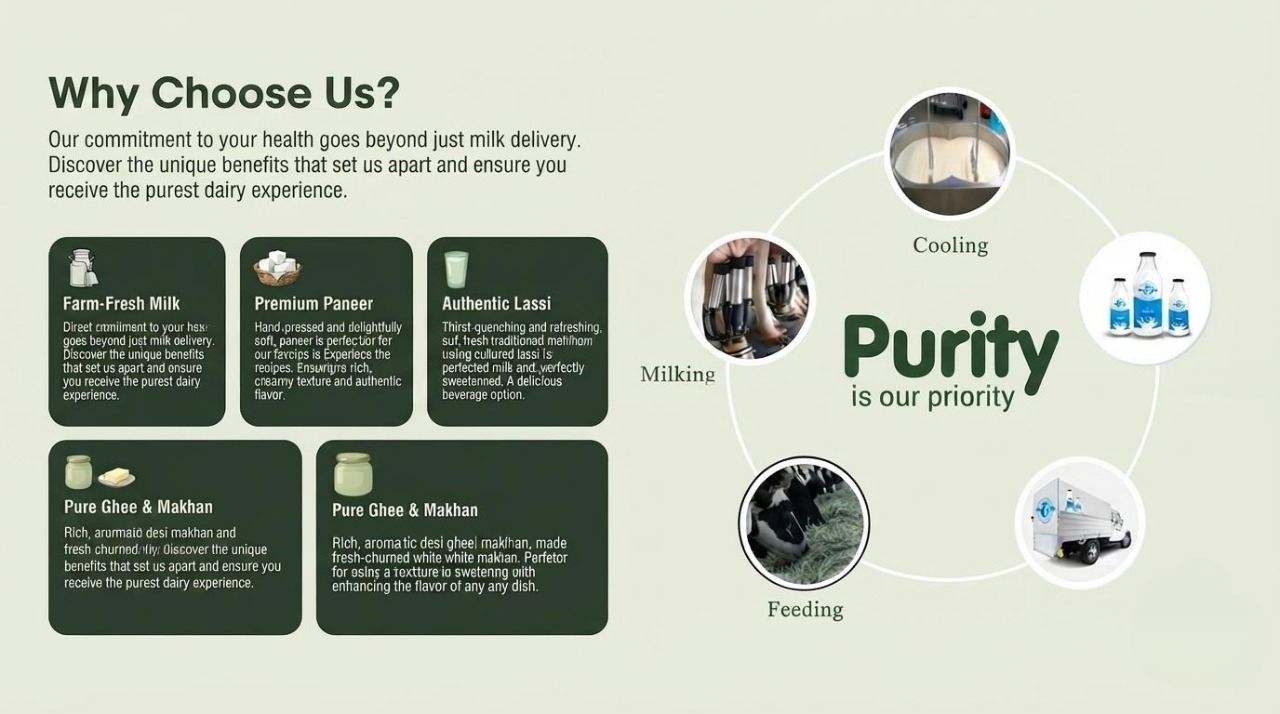
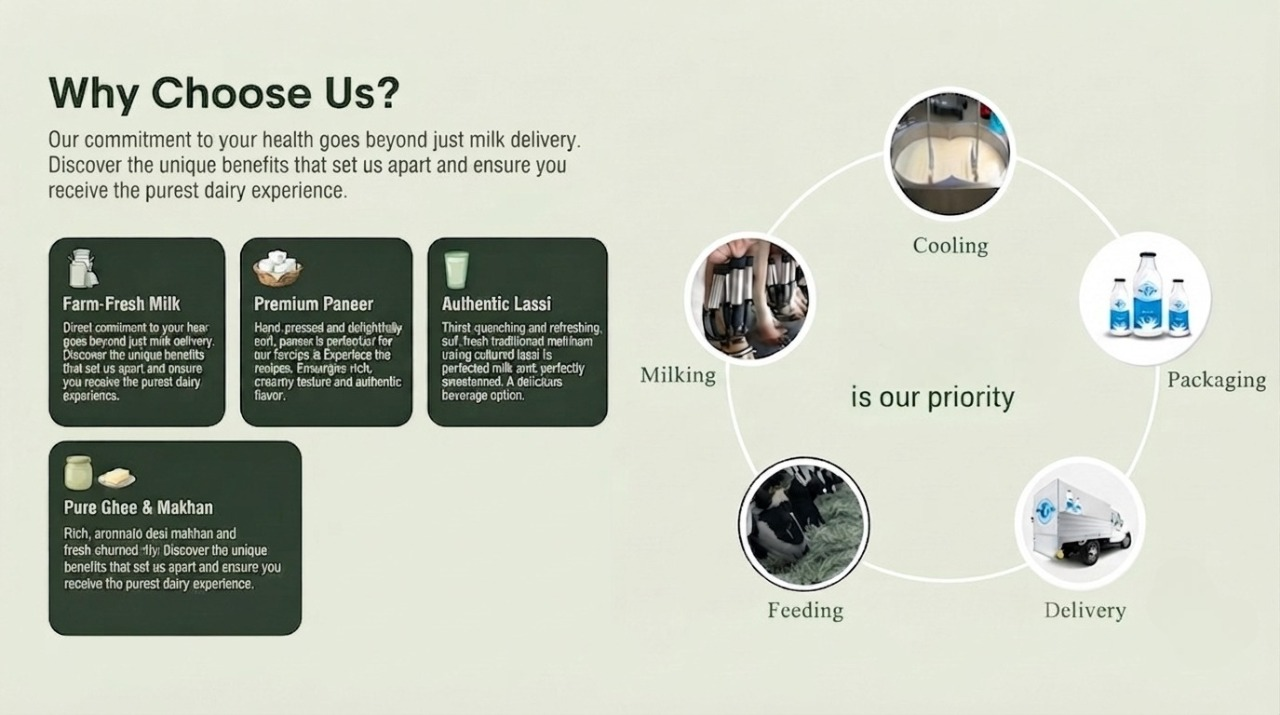
up

diff --git a/lib/features/auth/widgets/otp_input_field.dart b/lib/features/auth/widgets/otp_input_field.dart
@@ -20,9 +20,15 @@ class OtpInputField extends StatefulWidget {
 }
 
 class _OtpInputFieldState extends State<OtpInputField> {
-  final List<TextEditingController> _controllers =
-      List.generate(6, (_) => TextEditingController());
+  late List<TextEditingController> _controllers;
   final List<FocusNode> _focusNodes = List.generate(6, (_) => FocusNode());
+
+  @override
+  void initState() {
+    super.initState();
+    // Pre-populate with space to detect backspace on empty fields across all platforms (mobile IME)
+    _controllers = List.generate(6, (_) => TextEditingController(text: ' '));
+  }
 
   @override
   void dispose() {
@@ -36,15 +42,36 @@ class _OtpInputFieldState extends State<OtpInputField> {
   }
 
   void _onDigitChanged(int index, String value) {
-    if (value.isNotEmpty) {
-      if (index < 5) {
-        _focusNodes[index + 1].requestFocus();
-      } else {
-        _focusNodes[index].unfocus();
+    if (value.isEmpty) {
+      // Put the space back so we can detect future deletions
+      _controllers[index].text = ' ';
+      
+      if (index > 0) {
+        // Clear the previous controller's digit and set it back to space
+        _controllers[index - 1].text = ' ';
+        _focusNodes[index - 1].requestFocus();
+      }
+    } else {
+      final cleanValue = value.replaceAll(' ', '');
+      if (cleanValue.isNotEmpty) {
+        final digit = cleanValue.substring(cleanValue.length - 1);
+        _controllers[index].value = TextEditingValue(
+          text: digit,
+          selection: TextSelection.collapsed(offset: digit.length),
+        );
+
+        if (index < 5) {
+          _focusNodes[index + 1].requestFocus();
+        } else {
+          _focusNodes[index].unfocus();
+        }
       }
     }
 
-    final code = _controllers.map((c) => c.text).join();
+    final code = _controllers.map((c) {
+      return c.text.replaceAll(' ', '');
+    }).join();
+
     if (widget.onChanged != null) {
       widget.onChanged!(code);
     }
@@ -61,34 +88,54 @@ class _OtpInputFieldState extends State<OtpInputField> {
         return SizedBox(
           width: 48,
           height: 56,
-          child: TextFormField(
-            controller: _controllers[index],
-            focusNode: _focusNodes[index],
-            keyboardType: TextInputType.number,
-            textAlign: TextAlign.center,
-            style: const TextStyle(
-              fontSize: 20,
-              fontWeight: FontWeight.bold,
-              color: AppColors.primaryBlue,
-            ),
-            inputFormatters: [
-              LengthLimitingTextInputFormatter(1),
-              FilteringTextInputFormatter.digitsOnly,
-            ],
-            onChanged: (value) => _onDigitChanged(index, value),
-            decoration: const InputDecoration(
-              filled: true,
-              fillColor: AppColors.inputBackground,
-              contentPadding: EdgeInsets.zero,
-              border: OutlineInputBorder(
-                borderRadius: AppSizes.borderMedium,
-                borderSide: BorderSide(color: AppColors.border),
+          child: KeyboardListener(
+            focusNode: FocusNode(skipTraversal: true),
+            onKeyEvent: (KeyEvent event) {
+              if (event is KeyDownEvent) {
+                if (event.logicalKey == LogicalKeyboardKey.arrowLeft && index > 0) {
+                  _focusNodes[index - 1].requestFocus();
+                } else if (event.logicalKey == LogicalKeyboardKey.arrowRight && index < 5) {
+                  _focusNodes[index + 1].requestFocus();
+                }
+              }
+            },
+            child: TextFormField(
+              controller: _controllers[index],
+              focusNode: _focusNodes[index],
+              keyboardType: TextInputType.number,
+              textAlign: TextAlign.center,
+              textInputAction:
+                  index < 5 ? TextInputAction.next : TextInputAction.done,
+              onFieldSubmitted: (_) {
+                final code = _controllers.map((c) => c.text.replaceAll(' ', '')).join();
+                if (code.length == 6) {
+                  widget.onCompleted(code);
+                }
+              },
+              style: const TextStyle(
+                fontSize: 20,
+                fontWeight: FontWeight.bold,
+                color: AppColors.primaryBlue,
               ),
-              focusedBorder: OutlineInputBorder(
-                borderRadius: AppSizes.borderMedium,
-                borderSide: BorderSide(
-                  color: AppColors.primaryBlue,
-                  width: 2.0,
+              inputFormatters: [
+                LengthLimitingTextInputFormatter(2),
+                FilteringTextInputFormatter.allow(RegExp(r'[0-9\s]')),
+              ],
+              onChanged: (value) => _onDigitChanged(index, value),
+              decoration: const InputDecoration(
+                filled: true,
+                fillColor: AppColors.inputBackground,
+                contentPadding: EdgeInsets.zero,
+                border: OutlineInputBorder(
+                  borderRadius: AppSizes.borderMedium,
+                  borderSide: BorderSide(color: AppColors.border),
+                ),
+                focusedBorder: OutlineInputBorder(
+                  borderRadius: AppSizes.borderMedium,
+                  borderSide: BorderSide(
+                    color: AppColors.primaryBlue,
+                    width: 2.0,
+                  ),
                 ),
               ),
             ),

diff --git a/lib/core/widgets/app_desktop_sidebar.dart b/lib/core/widgets/app_desktop_sidebar.dart
@@ -154,14 +154,16 @@ class AppDesktopSidebar extends ConsumerWidget {
                   decoration: BoxDecoration(
                     color: const Color(0xFFECF5F0),
                     borderRadius: BorderRadius.circular(14),
-                    border: Border.all(color: const Color(0xFFCBE0D4), width: 0.8),
+                    border:
+                        Border.all(color: const Color(0xFFCBE0D4), width: 0.8),
                   ),
                   child: Row(
                     children: [
                       const CircleAvatar(
                         backgroundColor: Color(0xFF005F38),
                         radius: 18,
-                        child: Icon(Icons.person, color: Colors.white, size: 20),
+                        child:
+                            Icon(Icons.person, color: Colors.white, size: 20),
                       ),
                       const SizedBox(width: 10),
                       const Expanded(
@@ -194,7 +196,8 @@ class AppDesktopSidebar extends ConsumerWidget {
                             context: context,
                             builder: (ctx) => AlertDialog(
                               title: const Text('Log Out'),
-                              content: const Text('Are you sure you want to log out of Sawariya Dairy?'),
+                              content: const Text(
+                                  'Are you sure you want to log out of Sawariya Dairy?'),
                               actions: [
                                 TextButton(
                                   onPressed: () => Navigator.pop(ctx),
@@ -203,9 +206,13 @@ class AppDesktopSidebar extends ConsumerWidget {
                                 TextButton(
                                   onPressed: () {
                                     Navigator.pop(ctx);
-                                    ref.read(userProvider.notifier).clearSession();
+                                    ref
+                                        .read(userProvider.notifier)
+                                        .clearSession();
                                   },
-                                  child: const Text('Log Out', style: TextStyle(color: Colors.redAccent)),
+                                  child: const Text('Log Out',
+                                      style:
+                                          TextStyle(color: Colors.redAccent)),
                                 ),
                               ],
                             ),
@@ -264,46 +271,39 @@ class _SidebarNavItemState extends State<_SidebarNavItem> {
     return MouseRegion(
       onEnter: (_) => setState(() => _isHovered = true),
       onExit: (_) => setState(() => _isHovered = false),
-      child: AnimatedContainer(
-        duration: const Duration(milliseconds: 150),
-        decoration: BoxDecoration(
-          color: active
-              ? const Color(0xFF005F38)
-              : (_isHovered ? const Color(0xFFD4E6DC) : Colors.transparent),
-          borderRadius: AppSizes.borderMedium,
-        ),
-        child: Material(
-          color: Colors.transparent,
-          borderRadius: AppSizes.borderMedium,
-          child: ListTile(
-            onTap: widget.onTap,
-            shape: const RoundedRectangleBorder(
-              borderRadius: AppSizes.borderMedium,
-            ),
-            contentPadding: const EdgeInsets.symmetric(
-              horizontal: AppSizes.p16,
-              vertical: 2,
-            ),
-            leading: Icon(
-              active ? widget.activeIcon : widget.icon,
+      child: Material(
+        color: _isHovered ? const Color(0xFFD4E0DC) : Colors.transparent,
+        borderRadius: AppSizes.borderMedium,
+        clipBehavior: Clip.antiAlias,
+        child: ListTile(
+          onTap: widget.onTap,
+          shape: const RoundedRectangleBorder(
+            borderRadius: AppSizes.borderMedium,
+          ),
+          contentPadding: const EdgeInsets.symmetric(
+            horizontal: AppSizes.p16,
+            vertical: 2,
+          ),
+          // ... keep your leading, title, and trailing widgets below as they were
+          leading: Icon(
+            active ? widget.activeIcon : widget.icon,
+            color: active
+                ? Colors.white
+                : (_isHovered
+                    ? const Color(0xFF005F38)
+                    : const Color(0xFF334E41)),
+            size: 22,
+          ),
+          title: Text(
+            widget.label,
+            style: TextStyle(
+              fontSize: 14,
+              fontWeight: active ? FontWeight.w700 : FontWeight.w500,
               color: active
                   ? Colors.white
                   : (_isHovered
                       ? const Color(0xFF005F38)
                       : const Color(0xFF334E41)),
-              size: 22,
-            ),
-            title: Text(
-              widget.label,
-              style: TextStyle(
-                fontSize: 14,
-                fontWeight: active ? FontWeight.w700 : FontWeight.w500,
-                color: active
-                    ? Colors.white
-                    : (_isHovered
-                        ? const Color(0xFF005F38)
-                        : const Color(0xFF334E41)),
-              ),
             ),
           ),
         ),

diff --git a/lib/features/auth/screens/login_screen.dart b/lib/features/auth/screens/login_screen.dart
@@ -98,6 +98,8 @@ class _LoginScreenState extends ConsumerState<LoginScreen> {
                 TextFormField(
                   controller: _mobileController,
                   keyboardType: TextInputType.phone,
+                  textInputAction: TextInputAction.done,
+                  onFieldSubmitted: (_) => _handleSendOtp(),
                   validator: AppValidators.validatePhone,
                   style: GoogleFonts.inter(
                     fontSize: 14,
@@ -120,6 +122,7 @@ class _LoginScreenState extends ConsumerState<LoginScreen> {
                     contentPadding: const EdgeInsets.symmetric(
                       horizontal: 16,
                       vertical: 14,
+                      // vertical: 14,
                     ),
                     enabledBorder: OutlineInputBorder(
                       borderRadius: BorderRadius.circular(12),

diff --git a/lib/core/widgets/app_app_bar.dart b/lib/core/widgets/app_app_bar.dart
@@ -85,7 +85,7 @@ class AppTopAppBar extends StatelessWidget implements PreferredSizeWidget {
 
               const SizedBox(width: 12),
 
-              // Location Pill (Deliver to Jaipur, 302001)
+              // Location Pill (Deliver to Gurugram, 122001)
               if (isDesktop) ...[
                 Container(
                   padding: const EdgeInsets.symmetric(horizontal: 12, vertical: 6),
@@ -123,7 +123,7 @@ class AppTopAppBar extends StatelessWidget implements PreferredSizeWidget {
                             ),
                           ),
                           Text(
-                            'Jaipur, 302001',
+                            'Gurugram, 122001',
                             style: TextStyle(
                               fontSize: 11.5,
                               fontWeight: FontWeight.w700,
